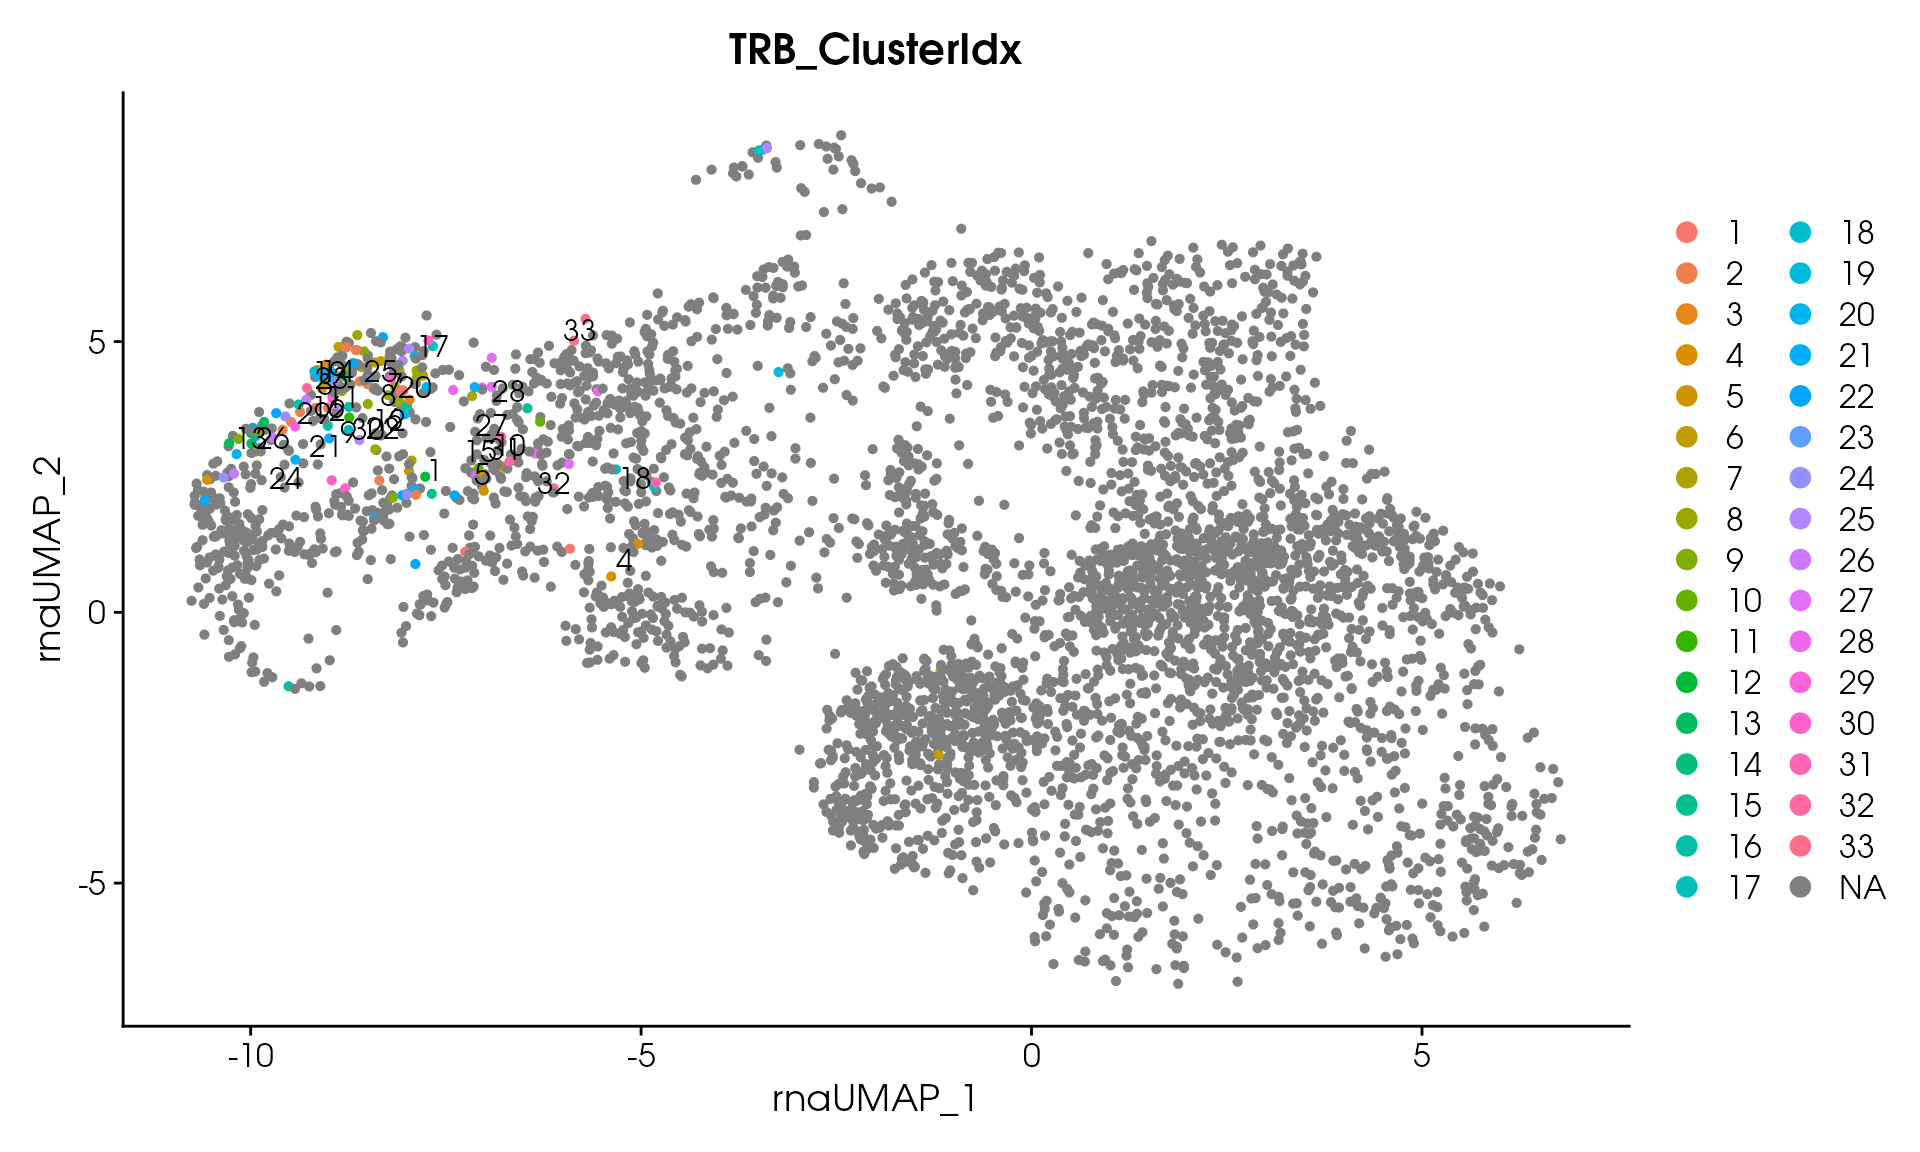
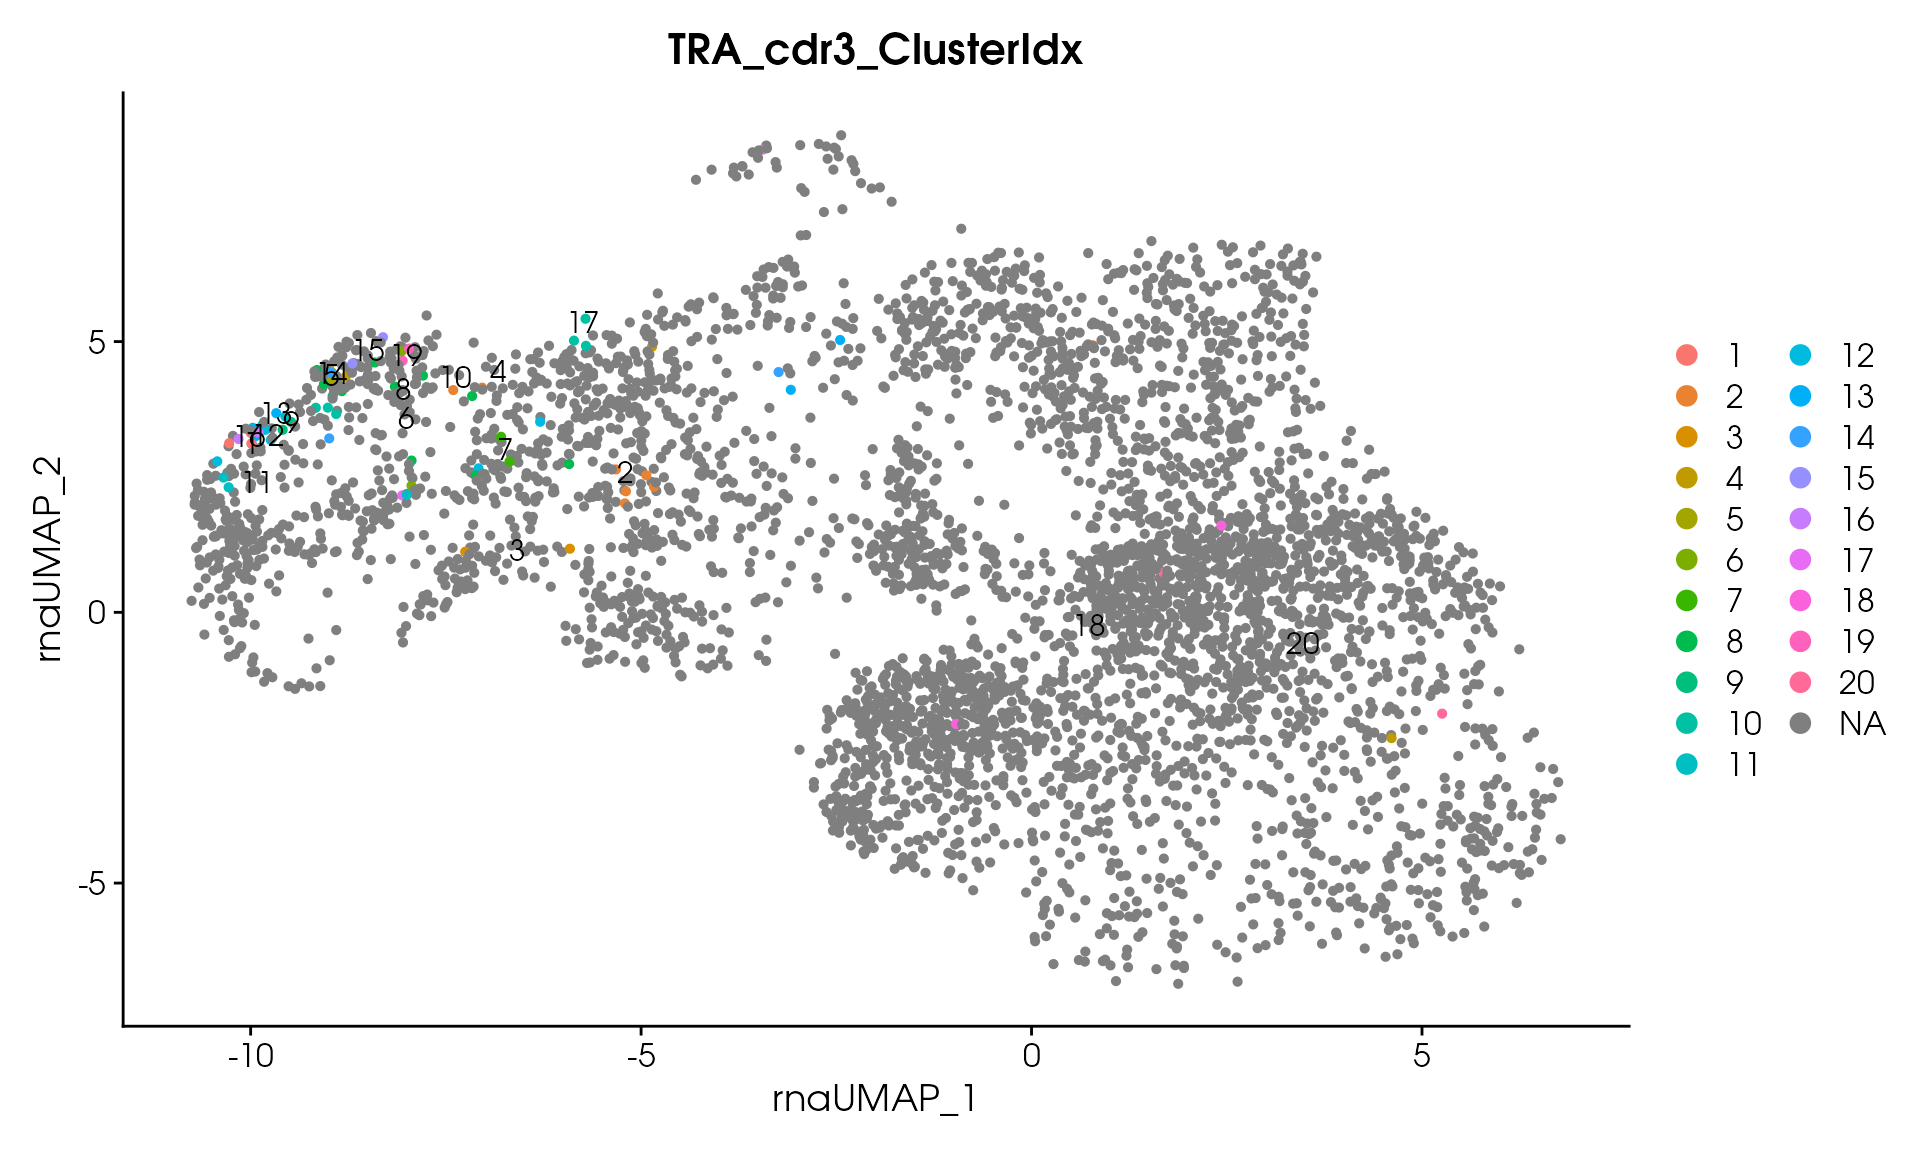
Built site for tcrClustR@0.0.0.9000: 3cc7131

diff --git a/articles/tcrClustR-workflow.html b/articles/tcrClustR-workflow.html
@@ -191,39 +191,65 @@ Cells are assigned to a family/cluster index for each chain:</p>
 <span>  dianaHeight <span class="op">=</span> <span class="fl">20</span>, </span>
 <span>  clusterSizeThreshold <span class="op">=</span> <span class="fl">1</span></span>
 <span><span class="op">)</span></span>
-<span><span class="co">#&gt; Processing assay: TRA_fl</span></span>
+<span><span class="co">#&gt; Processing assay: TRA_cdr3</span></span>
+<span><span class="co">#&gt; Running DIANA clustering with cutHeight = 20</span></span>
+<span><span class="co">#&gt; DIANA clustering produced 20 clusters</span></span>
+<span><span class="co">#&gt; Thresholding clusters with minimum size = 1</span></span>
+<span><span class="co">#&gt; Removed 0 clusters with &lt; 1 clones</span></span>
+<span><span class="co">#&gt; Total clones removed: 0</span></span>
+<span><span class="co">#&gt; Remaining clusters: 20</span></span></code></pre></div>
+<p><img src="tcrClustR-workflow_files/figure-html/clusterTCRs-1.png" class="r-plt" width="960"></p>
+<pre><code><span><span class="co">#&gt; Processing assay: TRA_fl</span></span>
 <span><span class="co">#&gt; Running DIANA clustering with cutHeight = 20</span></span>
 <span><span class="co">#&gt; DIANA clustering produced 28 clusters</span></span>
 <span><span class="co">#&gt; Thresholding clusters with minimum size = 1</span></span>
 <span><span class="co">#&gt; Removed 0 clusters with &lt; 1 clones</span></span>
 <span><span class="co">#&gt; Total clones removed: 0</span></span>
-<span><span class="co">#&gt; Remaining clusters: 28</span></span>
-<span><span class="co">#&gt; Processing assay: TRB_cdr3</span></span>
-<span><span class="co">#&gt; Running DIANA clustering with cutHeight = 20</span></span>
-<span><span class="co">#&gt; DIANA clustering produced 33 clusters</span></span>
-<span><span class="co">#&gt; Thresholding clusters with minimum size = 1</span></span>
-<span><span class="co">#&gt; Removed 0 clusters with &lt; 1 clones</span></span>
-<span><span class="co">#&gt; Total clones removed: 0</span></span>
-<span><span class="co">#&gt; Remaining clusters: 33</span></span>
-<span><span class="co">#&gt; Processing assay: TRA_TRB_fl</span></span>
+<span><span class="co">#&gt; Remaining clusters: 28</span></span></code></pre>
+<p><img src="tcrClustR-workflow_files/figure-html/clusterTCRs-2.png" class="r-plt" width="960"></p>
+<pre><code><span><span class="co">#&gt; Processing assay: TRA_TRB_cdr3</span></span>
 <span><span class="co">#&gt; Running DIANA clustering with cutHeight = 20</span></span>
 <span><span class="co">#&gt; DIANA clustering produced 21 clusters</span></span>
 <span><span class="co">#&gt; Thresholding clusters with minimum size = 1</span></span>
 <span><span class="co">#&gt; Removed 0 clusters with &lt; 1 clones</span></span>
 <span><span class="co">#&gt; Total clones removed: 0</span></span>
-<span><span class="co">#&gt; Remaining clusters: 21</span></span></code></pre></div>
-<p><img src="tcrClustR-workflow_files/figure-html/clusterTCRs-1.png" class="r-plt" width="960"></p>
-<div class="sourceCode" id="cb5"><pre class="downlit sourceCode r">
+<span><span class="co">#&gt; Remaining clusters: 21</span></span></code></pre>
+<p><img src="tcrClustR-workflow_files/figure-html/clusterTCRs-3.png" class="r-plt" width="960"></p>
+<pre><code><span><span class="co">#&gt; Processing assay: TRA_TRB_fl</span></span>
+<span><span class="co">#&gt; Running DIANA clustering with cutHeight = 20</span></span>
+<span><span class="co">#&gt; DIANA clustering produced 21 clusters</span></span>
+<span><span class="co">#&gt; Thresholding clusters with minimum size = 1</span></span>
+<span><span class="co">#&gt; Removed 0 clusters with &lt; 1 clones</span></span>
+<span><span class="co">#&gt; Total clones removed: 0</span></span>
+<span><span class="co">#&gt; Remaining clusters: 21</span></span></code></pre>
+<p><img src="tcrClustR-workflow_files/figure-html/clusterTCRs-4.png" class="r-plt" width="960"></p>
+<pre><code><span><span class="co">#&gt; Processing assay: TRB_cdr3</span></span>
+<span><span class="co">#&gt; Running DIANA clustering with cutHeight = 20</span></span>
+<span><span class="co">#&gt; DIANA clustering produced 33 clusters</span></span>
+<span><span class="co">#&gt; Thresholding clusters with minimum size = 1</span></span>
+<span><span class="co">#&gt; Removed 0 clusters with &lt; 1 clones</span></span>
+<span><span class="co">#&gt; Total clones removed: 0</span></span>
+<span><span class="co">#&gt; Remaining clusters: 33</span></span></code></pre>
+<p><img src="tcrClustR-workflow_files/figure-html/clusterTCRs-5.png" class="r-plt" width="960"></p>
+<pre><code><span><span class="co">#&gt; Processing assay: TRB_fl</span></span>
+<span><span class="co">#&gt; Running DIANA clustering with cutHeight = 20</span></span>
+<span><span class="co">#&gt; DIANA clustering produced 51 clusters</span></span>
+<span><span class="co">#&gt; Thresholding clusters with minimum size = 1</span></span>
+<span><span class="co">#&gt; Removed 0 clusters with &lt; 1 clones</span></span>
+<span><span class="co">#&gt; Total clones removed: 0</span></span>
+<span><span class="co">#&gt; Remaining clusters: 51</span></span></code></pre>
+<p><img src="tcrClustR-workflow_files/figure-html/clusterTCRs-6.png" class="r-plt" width="960"></p>
+<div class="sourceCode" id="cb10"><pre class="downlit sourceCode r">
 <code class="sourceCode R"><span></span>
 <span><span class="fu"><a href="https://rdrr.io/r/base/print.html" class="external-link">print</a></span><span class="op">(</span><span class="st">"TCR clustering completed successfully!"</span><span class="op">)</span></span>
 <span><span class="co">#&gt; [1] "TCR clustering completed successfully!"</span></span></code></pre></div>
-<div class="sourceCode" id="cb6"><pre class="downlit sourceCode r">
+<div class="sourceCode" id="cb11"><pre class="downlit sourceCode r">
 <code class="sourceCode R"><span></span>
 <span><span class="co"># Visualize</span></span>
 <span><span class="fu"><a href="https://satijalab.org/seurat/reference/DimPlot.html" class="external-link">DimPlot</a></span><span class="op">(</span></span>
 <span>  <span class="va">seuratObj_TCR</span>,</span>
 <span>  reduction <span class="op">=</span> <span class="st">"umap"</span>,</span>
-<span>  group.by <span class="op">=</span> <span class="st">'TRB_ClusterIdx'</span>,</span>
+<span>  group.by <span class="op">=</span> <span class="st">'TRB_fl_ClusterIdx'</span>,</span>
 <span>  label <span class="op">=</span> <span class="cn">TRUE</span>,</span>
 <span>  pt.size <span class="op">=</span> <span class="fl">1</span></span>
 <span><span class="op">)</span></span></code></pre></div>
@@ -242,7 +268,7 @@ assays in <code>seuratObj_TCR</code>.</p>
 </h3>
 <p>Create a simple heatmap showing TCR distances with hierarchical
 clustering:</p>
-<div class="sourceCode" id="cb7"><pre class="downlit sourceCode r">
+<div class="sourceCode" id="cb12"><pre class="downlit sourceCode r">
 <code class="sourceCode R"><span><span class="kw"><a href="https://rdrr.io/r/base/library.html" class="external-link">library</a></span><span class="op">(</span><span class="va"><a href="https://github.com/jokergoo/ComplexHeatmap" class="external-link">ComplexHeatmap</a></span><span class="op">)</span></span>
 <span><span class="co">#&gt; Loading required package: grid</span></span>
 <span><span class="co">#&gt; ========================================</span></span>
@@ -289,7 +315,7 @@ clustering:</p>
 <h3 id="distance-histogram">Distance Histogram<a class="anchor" aria-label="anchor" href="#distance-histogram"></a>
 </h3>
 <p>Visualize the distribution of pairwise TCR distances:</p>
-<div class="sourceCode" id="cb8"><pre class="downlit sourceCode r">
+<div class="sourceCode" id="cb13"><pre class="downlit sourceCode r">
 <code class="sourceCode R"><span><span class="co"># Extract upper triangle of distance matrix (avoid duplicates)</span></span>
 <span><span class="va">dist_values</span> <span class="op">&lt;-</span> <span class="va">distance_matrix</span><span class="op">[</span><span class="fu"><a href="https://rdrr.io/r/base/lower.tri.html" class="external-link">upper.tri</a></span><span class="op">(</span><span class="va">distance_matrix</span><span class="op">)</span><span class="op">]</span></span>
 <span></span>
@@ -375,7 +401,7 @@ with gene expression, surface marker, or other omics data</li>
 <div class="section level2">
 <h2 id="session-information">Session Information<a class="anchor" aria-label="anchor" href="#session-information"></a>
 </h2>
-<div class="sourceCode" id="cb9"><pre class="downlit sourceCode r">
+<div class="sourceCode" id="cb14"><pre class="downlit sourceCode r">
 <code class="sourceCode R"><span><span class="fu"><a href="https://rdrr.io/r/utils/sessionInfo.html" class="external-link">sessionInfo</a></span><span class="op">(</span><span class="op">)</span></span>
 <span><span class="co">#&gt; R version 4.5.2 (2025-10-31)</span></span>
 <span><span class="co">#&gt; Platform: x86_64-pc-linux-gnu</span></span>

diff --git a/index.html b/index.html
@@ -108,7 +108,7 @@
 <span><span class="fu">DimPlot</span><span class="op">(</span></span>
 <span>  <span class="va">seuratObj_TCR</span>,</span>
 <span>  reduction <span class="op">=</span> <span class="st">"umap"</span>,</span>
-<span>  group.by <span class="op">=</span> <span class="st">'TRB_ClusterIdx'</span>,</span>
+<span>  group.by <span class="op">=</span> <span class="st">'TRB_fl_ClusterIdx'</span>,</span>
 <span>  label <span class="op">=</span> <span class="cn">TRUE</span></span>
 <span><span class="op">)</span></span>
 <span></span>
